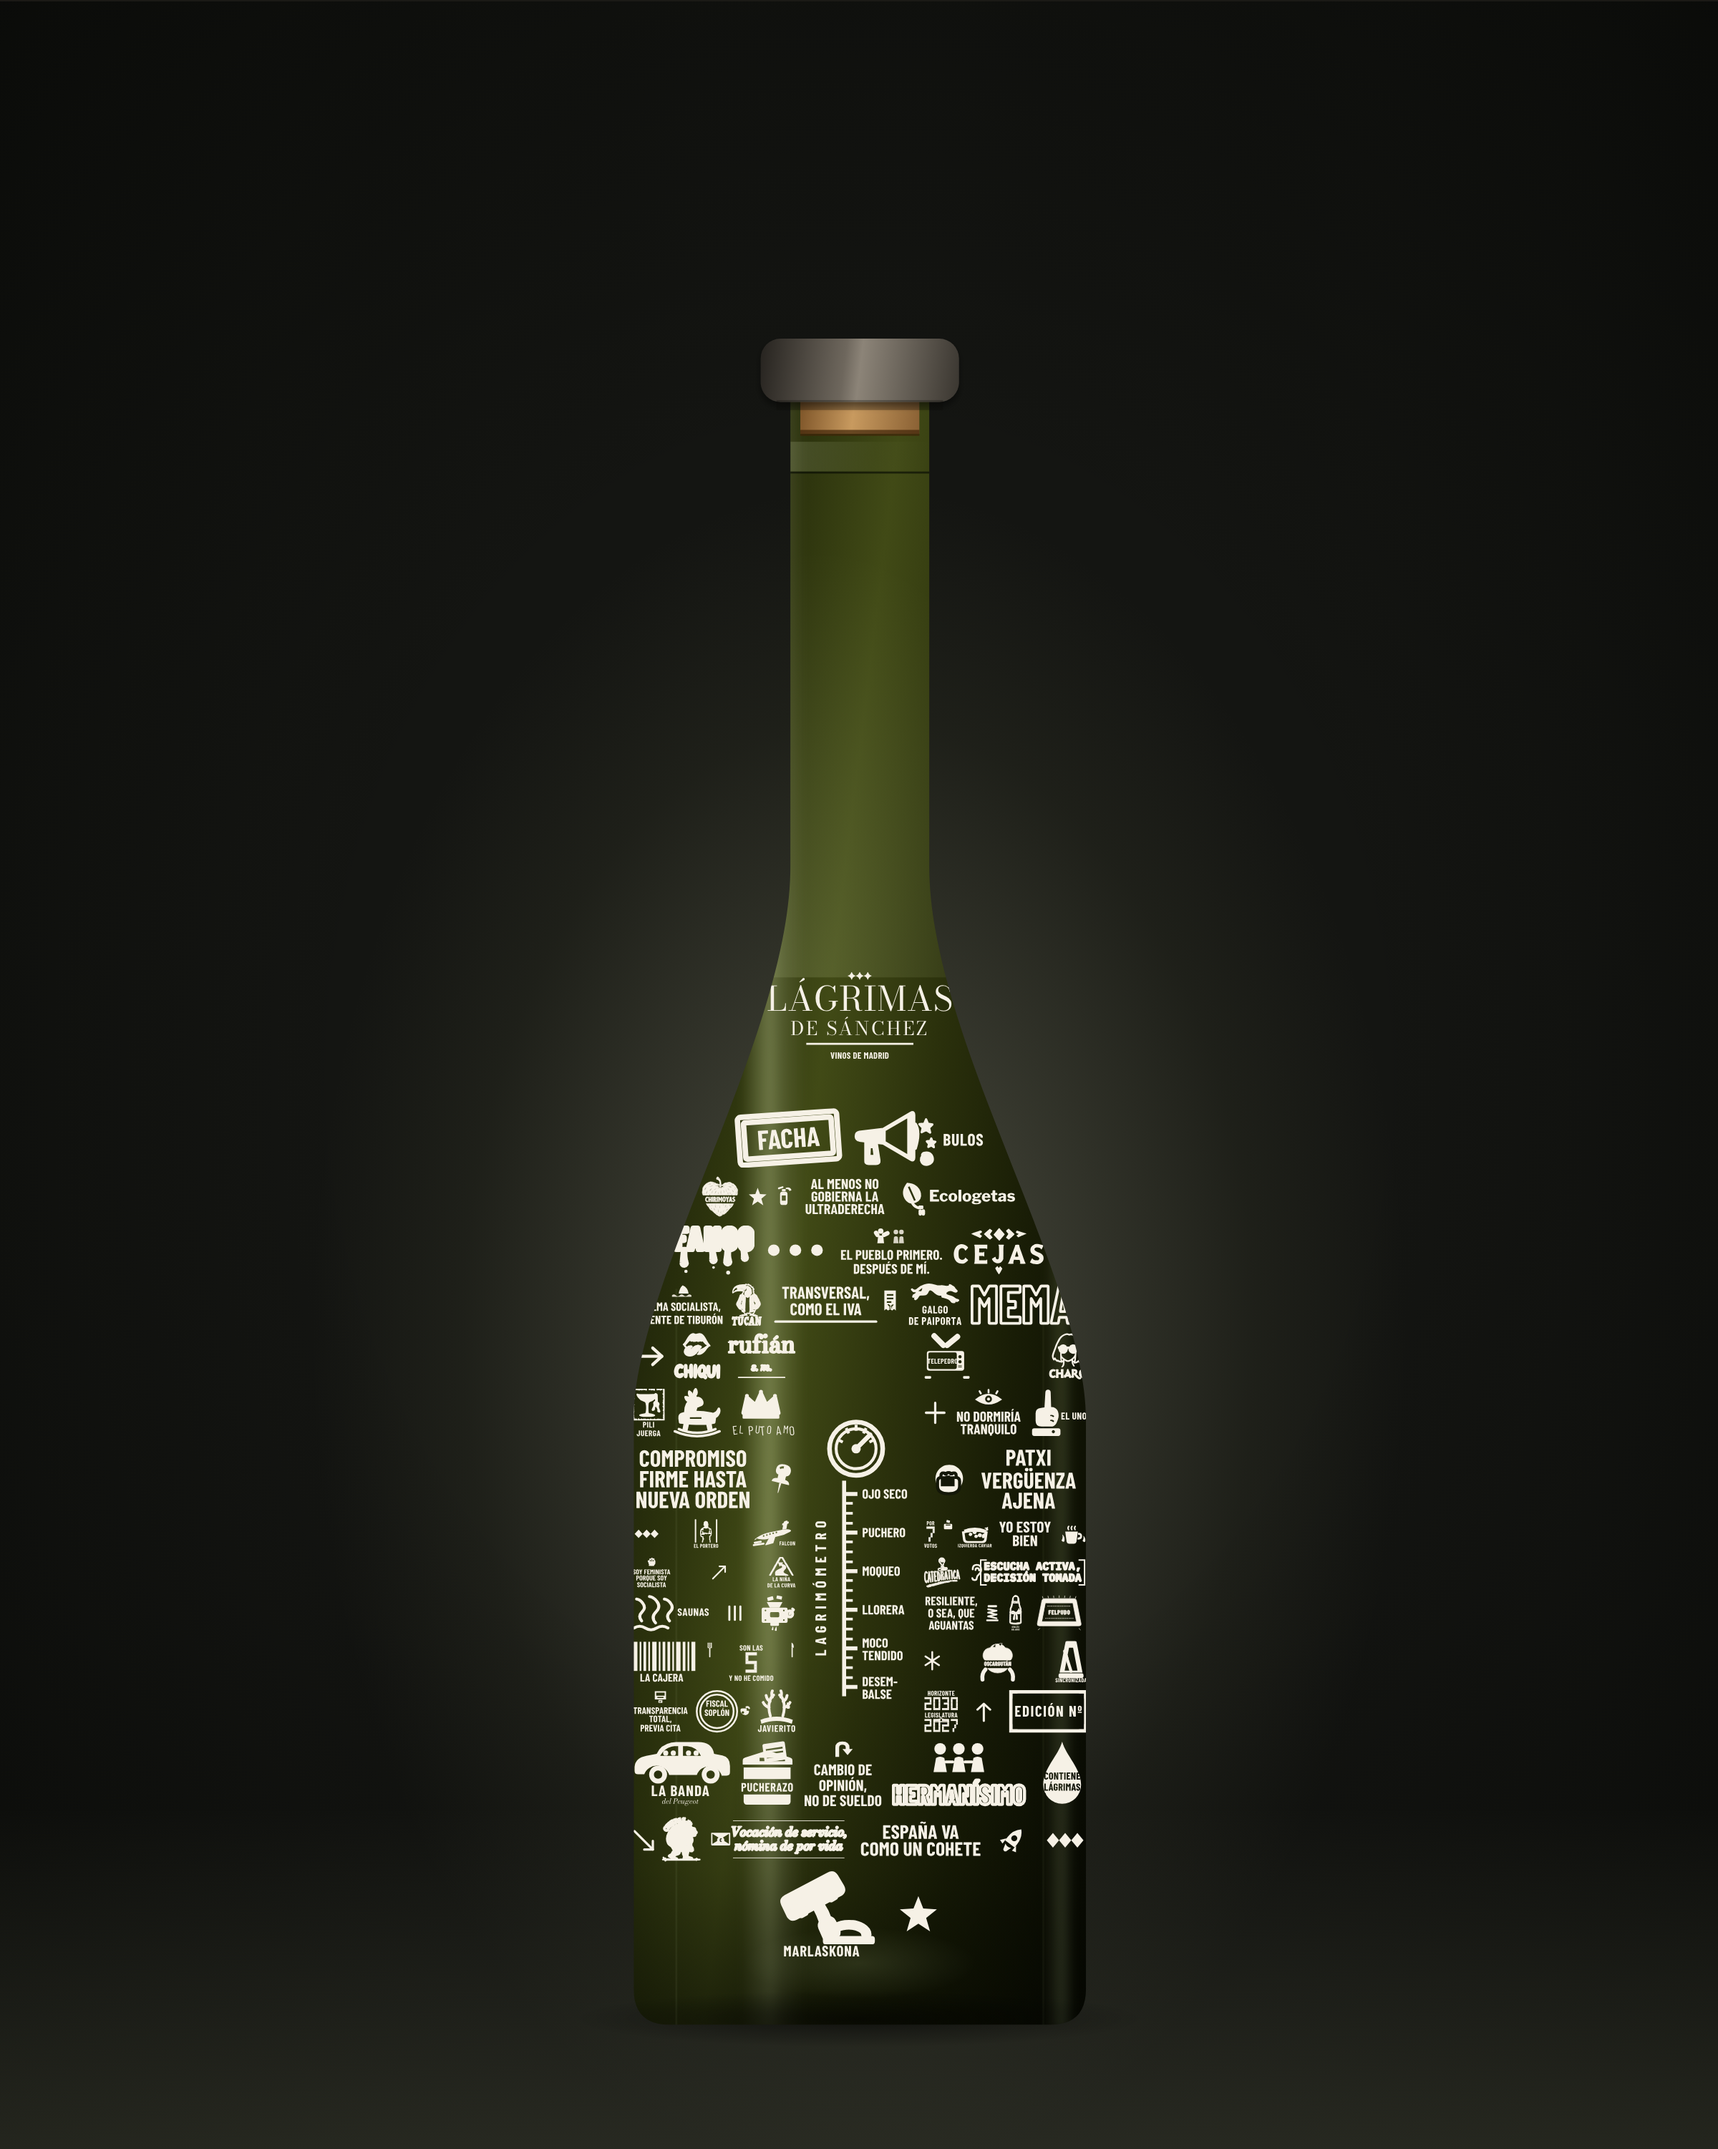
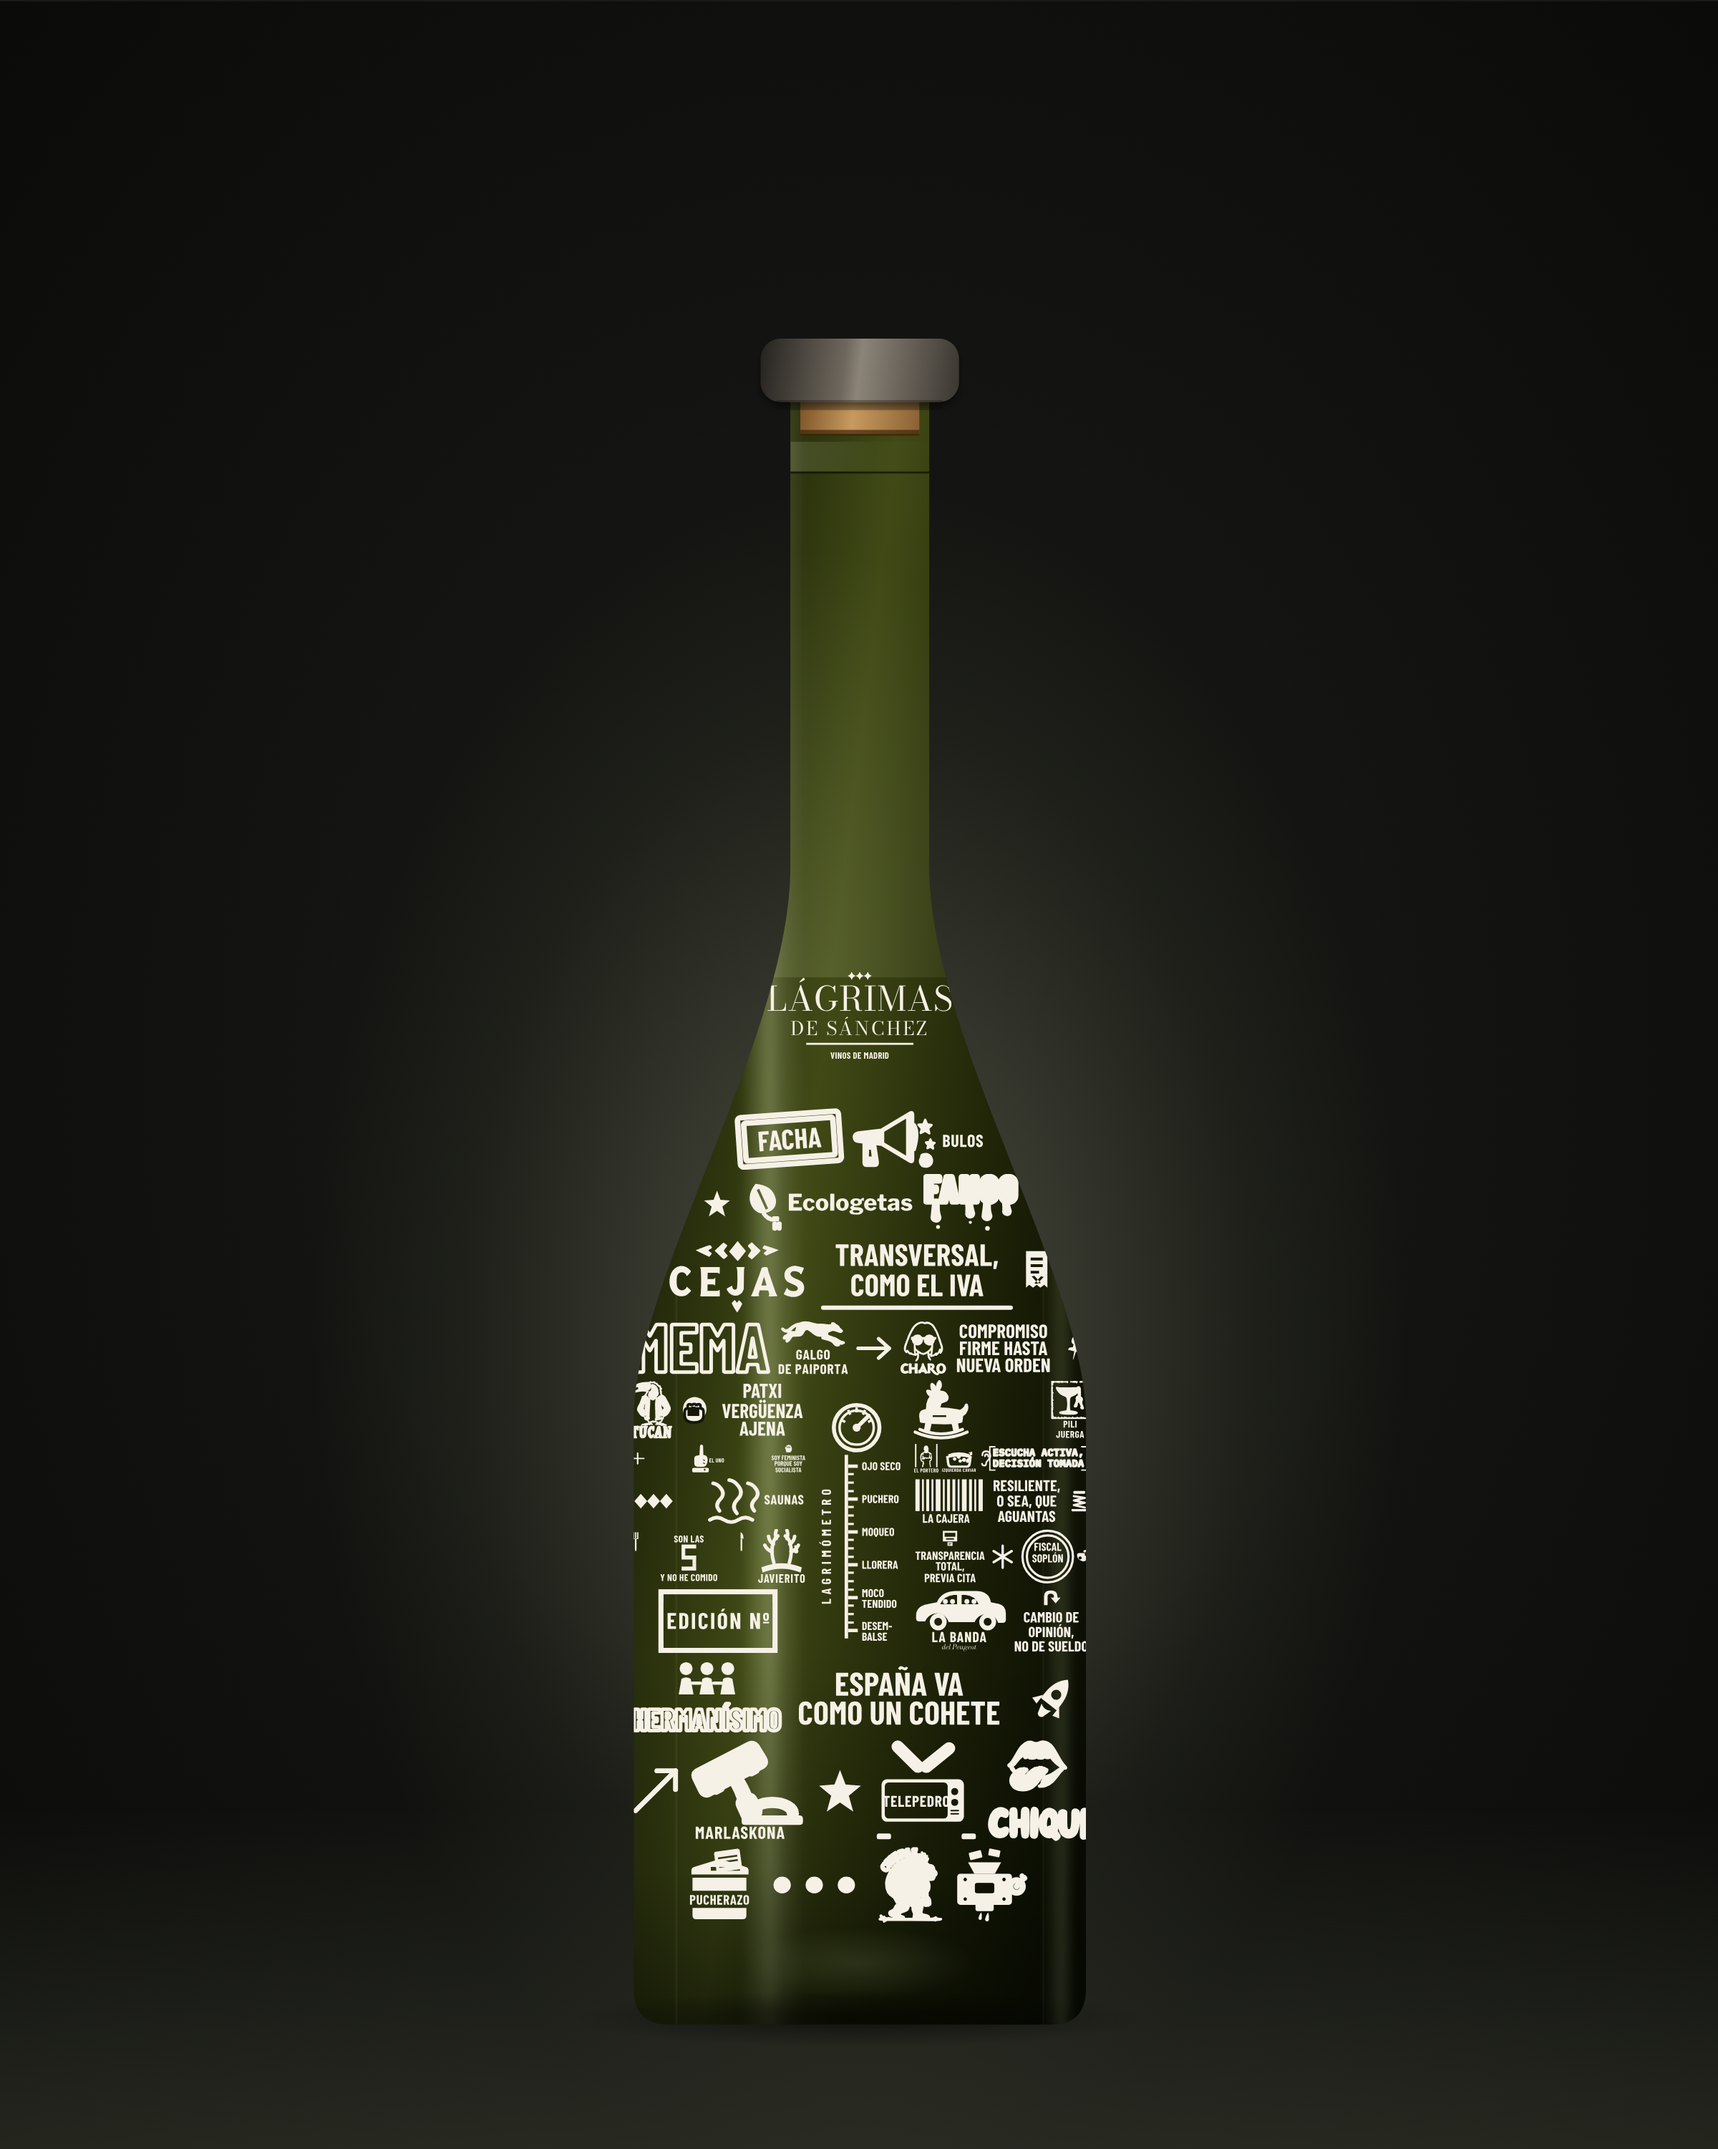
lagrimas: la cara frontal a la escala de la referencia
Puestas la referencia y nuestra botella lado a lado al mismo tamaño, la
diferencia no era de composición: era de ESCALA, y venía de un error de
concepto. Estábamos metiendo las 67 piezas en la cara visible, cuando un
cilindro de ø105 solo enseña ~40 % de su perímetro. En la foto del
Xitxarel·lo se cuentan unas treinta piezas, no sesenta y siete, y por eso
allí cada una es grande — CAFRE ocupa un cuarto del ancho del vidrio.

Ahora la botella dibujada pinta la CARA FRONTAL (unas cuarenta piezas,
con las de los costados cortadas por el canto) al tamaño de la
referencia. Las 57 siguen enteras donde deben estar: en el inventario, en
/estampado y en el desarrollo plano, que es el que ve el taller y el que
necesita la vuelta completa.

Además, el tejido se aprieta: hueco horizontal 3,5 → 2,6 y vertical a 2
(en la referencia las piezas casi se tocan, y esa falta de aire es la
mitad de la densidad), y el sangrado se queda en 6 — con 9 el canto
decapitaba palabras enteras, y un chiste a medias es una errata, no un
cilindro.

Desarrollo plano y renders regenerados.

Changed region(s): [[0.375, 0.5266, 0.6562, 0.9294]]

diff --git a/clients/lagrimas-de-sanchez/web/components/Botella.tsx b/clients/lagrimas-de-sanchez/web/components/Botella.tsx
@@ -155,12 +155,19 @@ type Colocada = { slug: string; id: number | string; x: number; y: number; w: nu
  */
 // Ancho y alto guardan la proporción REAL del instrumento (0,378): con un
 // carril de otra forma, `object-contain` lo encoge y deja aire a los lados.
-const CARRIL = { x0: 98, x1: 154, y0: 520, y1: 668 };
+const CARRIL = { x0: 102, x1: 150, y0: 512, y1: 638 };
 
-/** El aire interior. 3,5 px sobre 252 ≈ 1,6 mm impresos: apretado, como la referencia. */
-const HUECO = 3.5;
-/** Cuánto puede sobresalir una fila del canto: la silueta la recorta y la pieza «da la vuelta». */
-const SANGRADO = 5;
+/** El aire interior. 2,6 px sobre 252 ≈ 1,2 mm impresos: en la referencia las
+ *  piezas casi se tocan, y esa falta de aire es la mitad de la densidad. */
+const HUECO = 2.6;
+/** El aire VERTICAL entre filas, menor todavía: lo que cose el tejido de arriba abajo. */
+const HUECO_V = 2;
+/**
+ * Cuánto sobresale una fila del canto: la silueta la recorta y la pieza «da
+ * la vuelta». 6 y no 9: con 9 el borde decapitaba palabras enteras (MEMA sin
+ * la M, TUCÁN sin la T) y un chiste a medias es una errata, no un cilindro.
+ */
+const SANGRADO = 6;
 
 /**
  * Coloca la cola de piezas en filas justificadas entre y0 e y1.
@@ -273,33 +280,49 @@ function empaquetar(
         cx += anchos[k] + hueco;
       });
     }
-    y += altoFila + HUECO;
+    y += altoFila + HUECO_V;
   }
   return fuera;
 }
 
 /**
- * EL ORDEN DE LA COLA, que es la composición.
+ * LA CARA QUE SE VE (24-sep, comparando al mismo tamaño con la referencia).
  *
- * No es el inventario: está barajado A MANO para que dos piezas del mismo
- * registro no caigan juntas (dos frases largas seguidas hacen un párrafo;
- * dos pictogramas seguidos, un muestrario) y para que las anchas y las
+ * El error de fondo era meter las 67 piezas en la cara frontal. Un cilindro
+ * de ø105 solo enseña ~40 % de su perímetro: en la foto de la referencia se
+ * cuentan unas treinta piezas, no sesenta y siete, y por eso allí cada una
+ * es GRANDE — CAFRE ocupa un cuarto del ancho del vidrio. Apretando el
+ * inventario entero en la cara visible, todo salía a la mitad de tamaño y la
+ * botella se leía como un folleto.
+ *
+ * Así que esta cola es la CARA FRONTAL: las piezas que se verían de frente,
+ * con las de los costados cortadas por el canto. Las demás existen igual —
+ * están en el inventario, en `/estampado` y en el desarrollo plano del
+ * taller, que es donde se ven las 57 — pero aquí no caben sin encogerlo
+ * todo, igual que no caben en el vidrio real.
+ *
+ * El orden está barajado A MANO para que dos piezas del mismo registro no
+ * caigan juntas (dos frases largas seguidas hacen un párrafo; dos
+ * pictogramas seguidos, un muestrario) y para que las anchas y las
  * estrechas se turnen — de ahí sale la variedad de tamaño de fila, que es
- * lo que la referencia tiene y una retícula regular no puede fingir.
- *
- * Los remates (`r-*`) van donde el ojo necesita una pausa corta.
+ * lo que la referencia tiene y una retícula regular no puede fingir. Los
+ * remates (`r-*`) van donde el ojo necesita una pausa corta.
  */
 const COLA: (number | string)[] = [
-  26, 35, 3, "r-estrella", 22, 30,
-  34, "r-puntos", 51, 10, 44, 12, 45,
-  1, 20, "r-flecha-e", 4, 19, 36, 13,
-  5, 42, 38, "r-cruz", 23, 39,
-  47, 21, "r-rombos", 9, 40, 28, 43,
-  27, 31, "r-flecha-ne", 6, 7, 48,
-  37, "r-barras", 41, 49, 8, 15, 11,
-  25, "r-asterisco", 17, 32, 50, 29, 18,
-  46, "r-flecha-n", 57, 33, 55, 52, 16,
-  56, "r-flecha-se", 2, 53, 24, "r-rombos", 14, "r-estrella",
+  // Hombro: lo que asoma por encima, poco y suelto.
+  26, 35, "r-estrella", 30,
+  // Cuerpo alto: una ancla grande por fila y piezas medianas al lado.
+  34, 10, 45,
+  20, 1, "r-flecha-e", 13,
+  47, 12, 21,
+  42, 5, "r-cruz", 39,
+  31, 9, 43,
+  48, "r-rombos", 37, 11,
+  49, 25, 18,
+  50, "r-asterisco", 29, 57,
+  33, 52, 16,
+  24, "r-flecha-ne", 14, "r-estrella",
+  36, 4, 55, "r-puntos", 2, 41,
 ];
 
 /**
